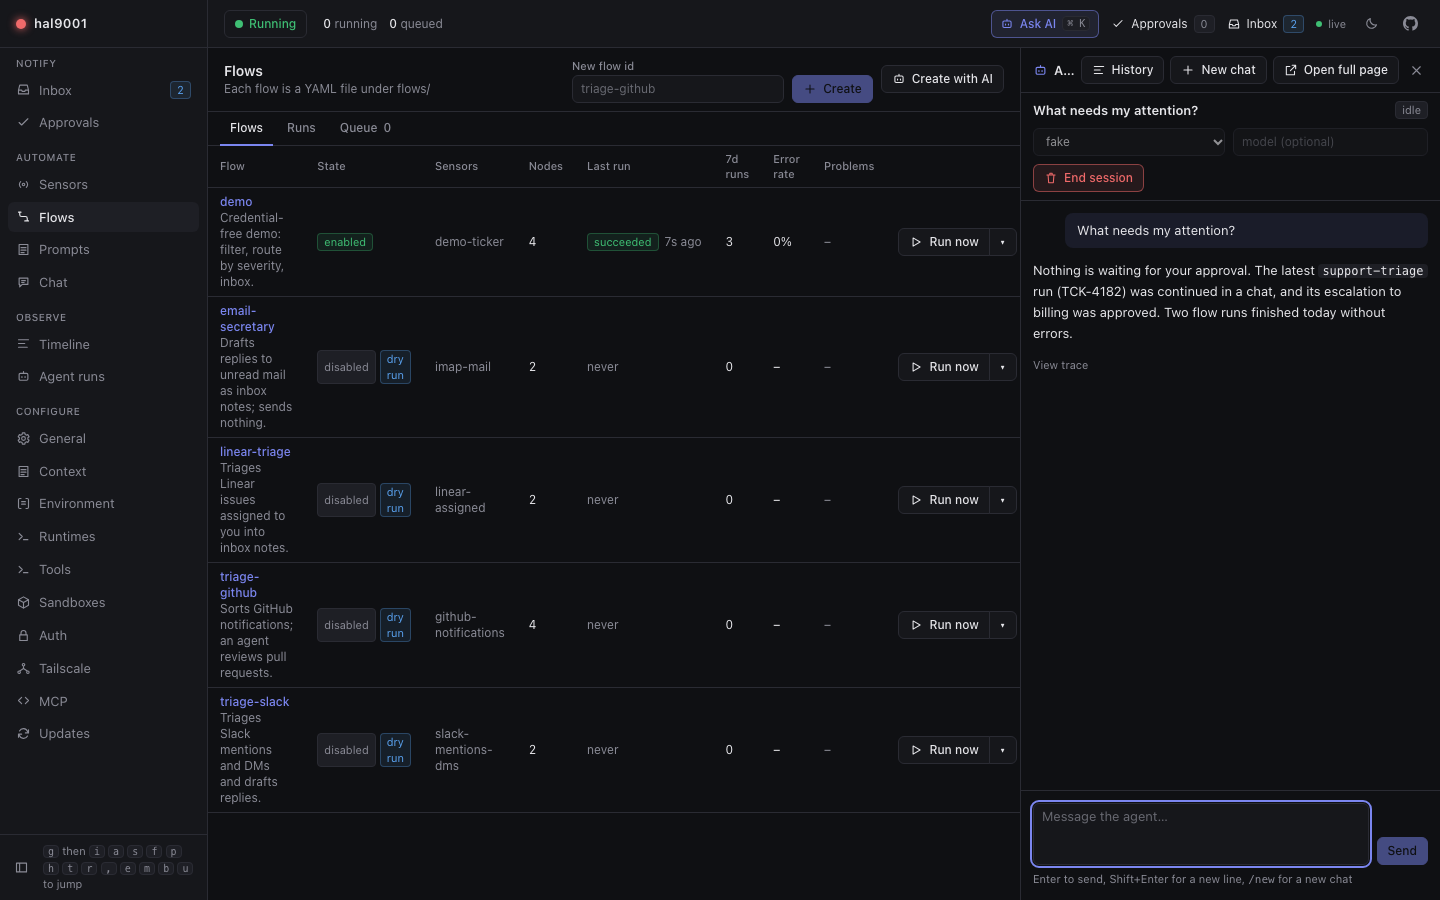
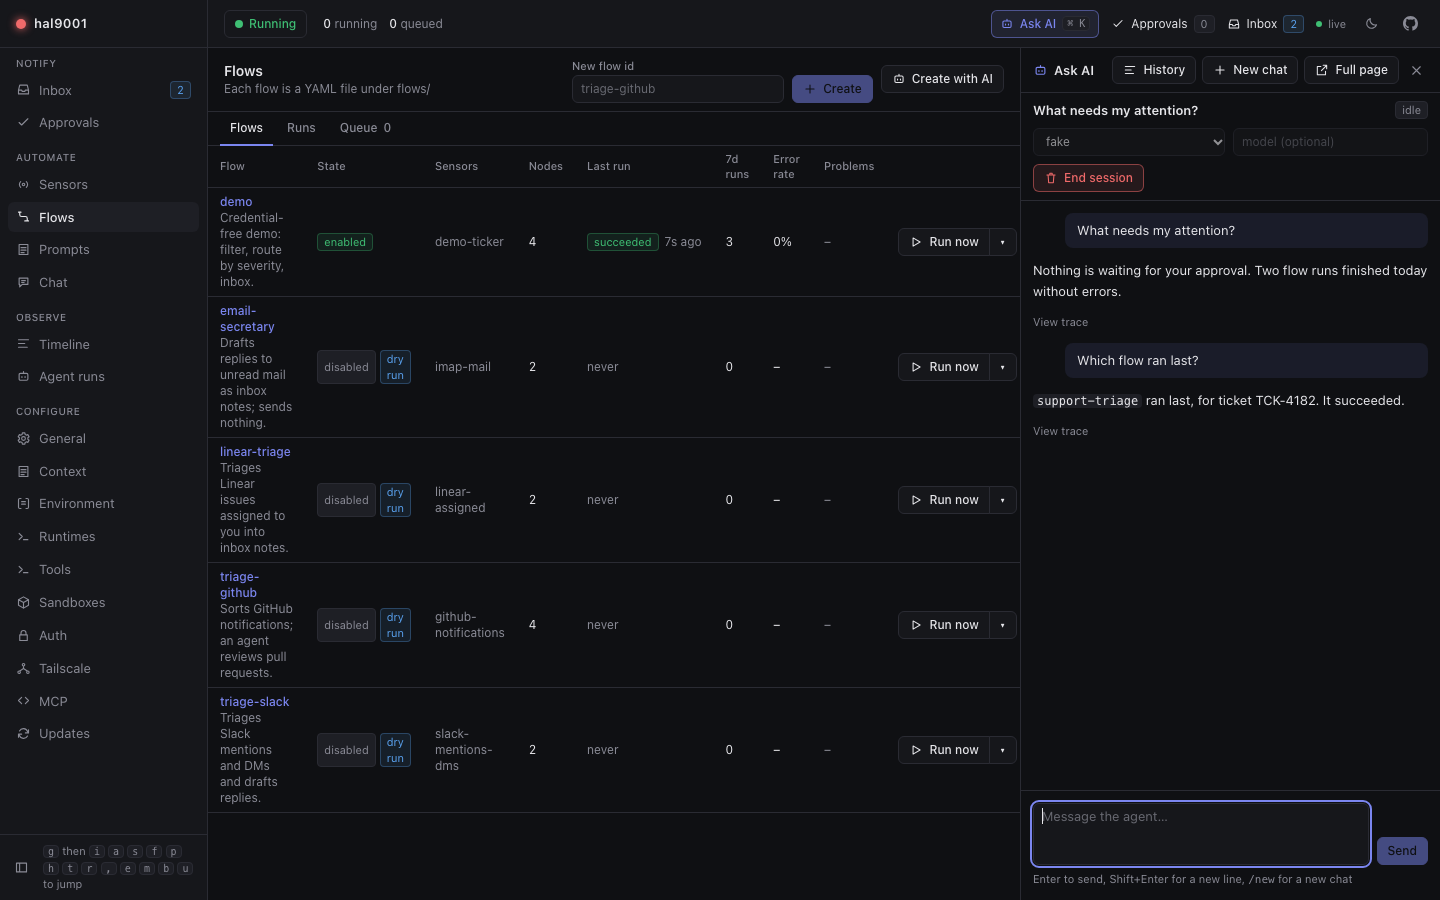
docs: drawer screenshot with the Full page button

Changed region(s): [[0.7188, 0.28, 1.0, 0.4044], [0.7188, 0.4356, 0.9688, 0.4978], [0.75, 0.0622, 0.9375, 0.0933]]

diff --git a/docs/assist.md b/docs/assist.md
@@ -309,9 +309,9 @@ when the runtime loaded its own session. The sandbox rows show that the run's sa
 **One chat at a time.** The drawer is not shown on `/chat`. The chat shown on the page receives the assistant's
 `navigate_ui` and `start_draft` requests, as the drawer's chat does elsewhere.
 
-The drawer has an `Open full page` button in its header that opens the same chat on `/chat/<id>`.
+The drawer has a `Full page` button (accessible name `Open full page`) in its header that opens the same chat on `/chat/<id>`.
 
-![The Ask AI drawer with the Open full page button](images/chat/drawer-open-full-page-light.png) ([dark](images/chat/drawer-open-full-page-dark.png))
+![The Ask AI drawer with the Full page button (accessible name Open full page)](images/chat/drawer-open-full-page-light.png) ([dark](images/chat/drawer-open-full-page-dark.png))
 
 ## The draft directory
 
